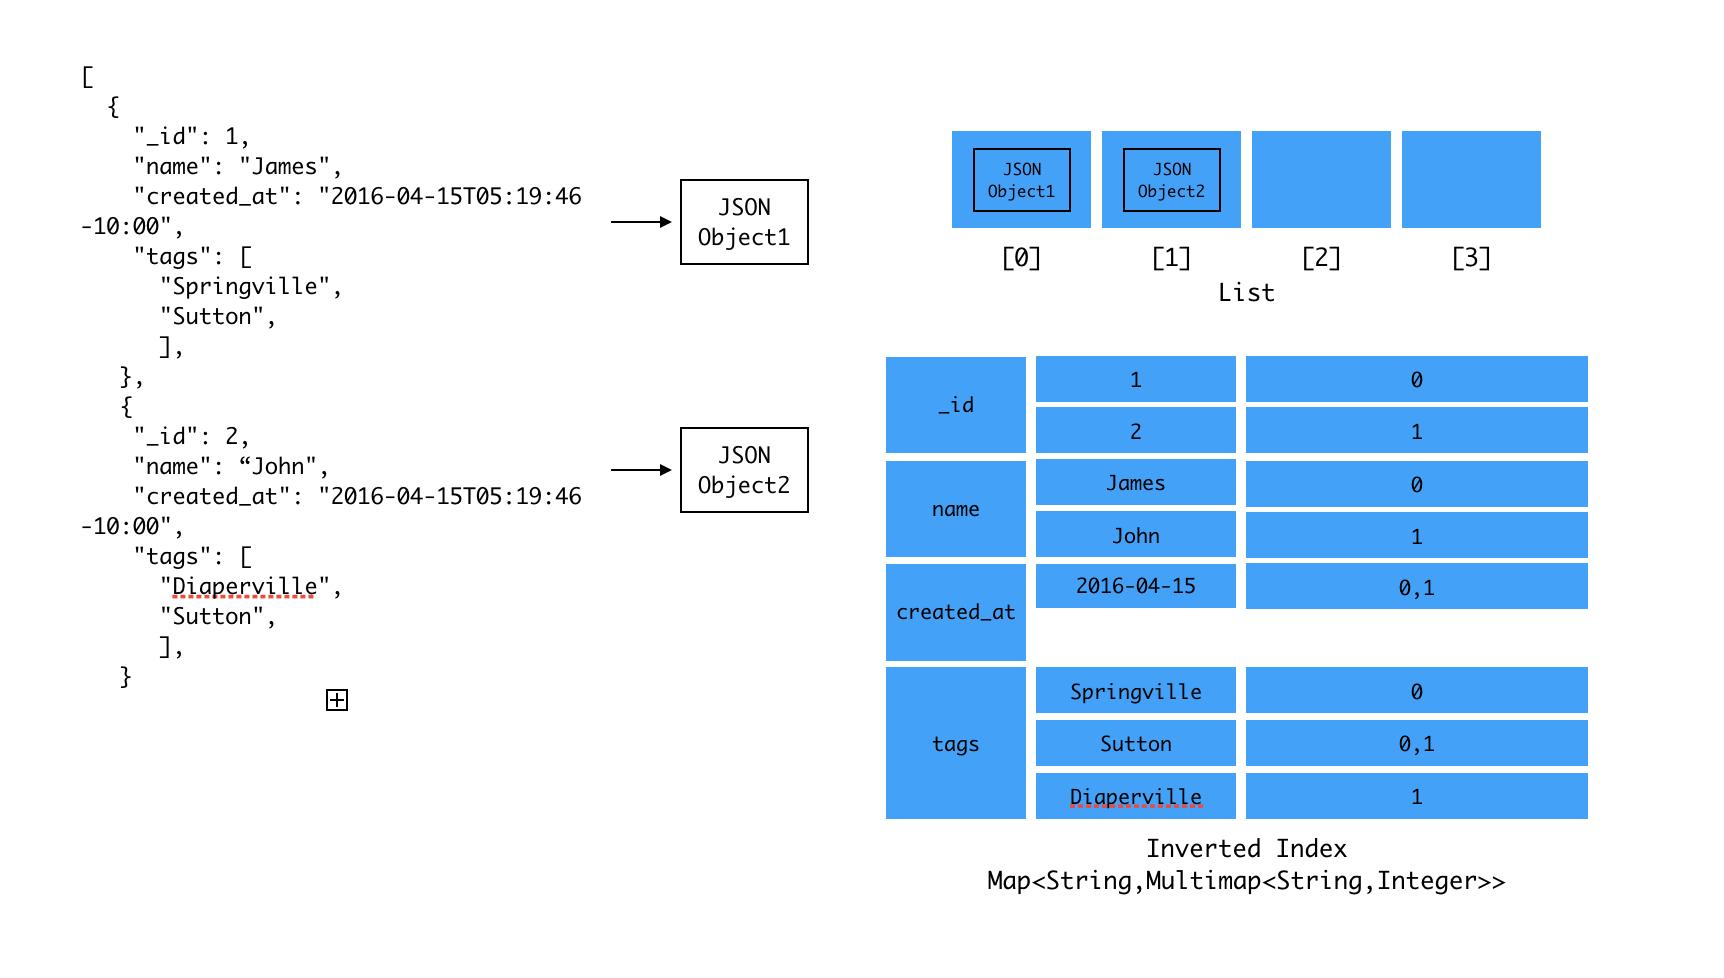
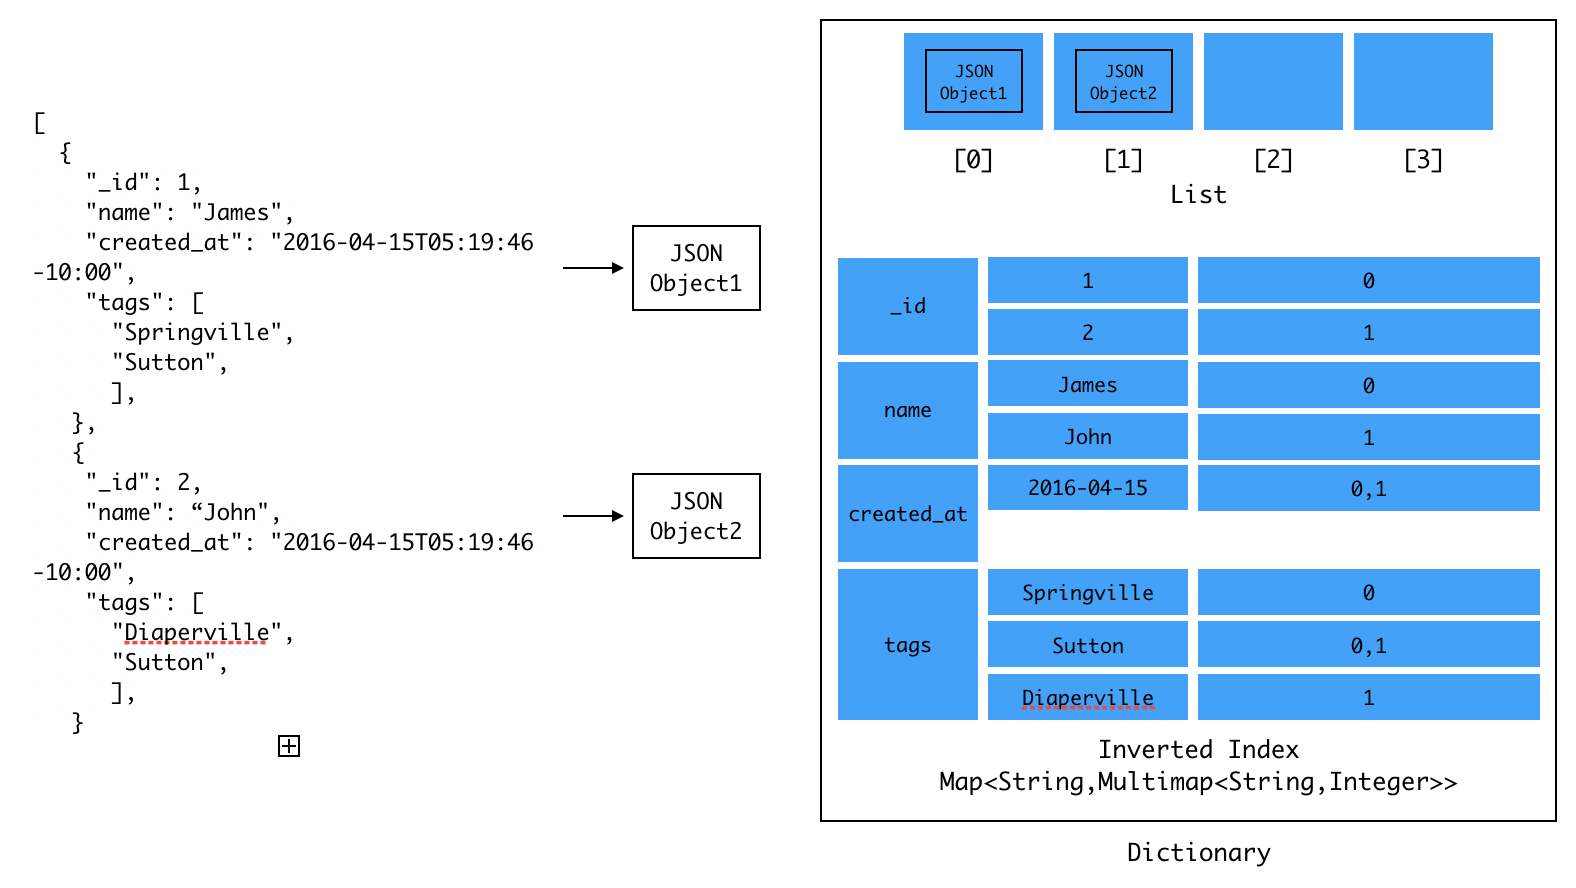
java docs, readme, renaming InvertedIndex to Dictionary

diff --git a/src/test/java/com/zendesk/search/DictionaryTest.java b/src/test/java/com/zendesk/search/DictionaryTest.java
@@ -14,20 +14,20 @@ import java.util.Set;
 
 import static org.hamcrest.CoreMatchers.is;
 
-public class InvertedIndexTest {
+public class DictionaryTest {
     
     private File file;
-    private InvertedIndex<User,Integer> invertedIndex;
+    private Dictionary<User,Integer> dictionary;
 
     @Before
     public void init() {
         file = new File(this.getClass().getResource("/usersSample.json").getFile());
-        invertedIndex = new InvertedIndex<>(file,User.class);
+        dictionary = new Dictionary<>(file,User.class);
     }
     
     @Test
     public void testSearchById_idExists_shouldReturnObjectForId(){
-        User user = invertedIndex.searchById(1);
+        User user = dictionary.searchById(1);
         Assert.assertNotNull(user);
         Assert.assertEquals(1,user.get_id().intValue());
     }
@@ -35,17 +35,17 @@ public class InvertedIndexTest {
     @Test
     public void testSearchById_idDoesNotExist_shouldReturnNull(){
         File file = new File(this.getClass().getResource("/usersSample.json").getFile());
-        InvertedIndex<User,Integer> invertedIndex = new InvertedIndex<>(file,User.class);
-        User user = invertedIndex.searchById(10);
+        Dictionary<User,Integer> dictionary = new Dictionary<>(file,User.class);
+        User user = dictionary.searchById(10);
         Assert.assertNull(user);
     }
 
     @Test
     public void testSearchById_nullId_shouldThrowRuntimeException(){
         File file = new File(this.getClass().getResource("/usersSample.json").getFile());
-        InvertedIndex<User,Integer> invertedIndex = new InvertedIndex<>(file,User.class);
+        Dictionary<User,Integer> dictionary = new Dictionary<>(file,User.class);
         try {
-            invertedIndex.searchById(null);
+            dictionary.searchById(null);
             Assert.fail("IllegalArgumentException to be thrown");
         }catch (IllegalArgumentException e){
             Assert.assertThat(e.getMessage(),is("Id cannot be null"));
@@ -55,9 +55,9 @@ public class InvertedIndexTest {
     @Test
     public void testSearchById_nullTerm_shouldThrowRuntimeException(){
         File file = new File(this.getClass().getResource("/usersSample.json").getFile());
-        InvertedIndex<User,Integer> invertedIndex = new InvertedIndex<>(file,User.class);
+        Dictionary<User,Integer> dictionary = new Dictionary<>(file,User.class);
         try {
-            invertedIndex.searchByTermValue(null,"test");
+            dictionary.searchByTermValue(null,"test");
             Assert.fail("IllegalArgumentException to be thrown");
         }catch (IllegalArgumentException e){
             Assert.assertThat(e.getMessage(),is("Term cannot be null"));
@@ -67,8 +67,8 @@ public class InvertedIndexTest {
     @Test
     public void testSearchTermValue_termExists_shouldReturnAllMatchingInList(){
         File file = new File(this.getClass().getResource("/usersSample.json").getFile());
-        InvertedIndex<User,Integer> invertedIndex = new InvertedIndex<>(file,User.class);
-        List<User> list = invertedIndex.searchByTermValue("shared","false");
+        Dictionary<User,Integer> dictionary = new Dictionary<>(file,User.class);
+        List<User> list = dictionary.searchByTermValue("shared","false");
         Assert.assertNotNull(list);
         Assert.assertEquals(3,list.size());
         list.stream().forEach(l -> Assert.assertFalse(l.getShared()));
@@ -77,15 +77,15 @@ public class InvertedIndexTest {
     @Test
     public void testSearchTermValue_termNotExist_shouldReturnNull(){
         File file = new File(this.getClass().getResource("/usersSample.json").getFile());
-        InvertedIndex<User,Integer> invertedIndex = new InvertedIndex<>(file,User.class);
-        Assert.assertNull(invertedIndex.searchByTermValue("z","false"));
+        Dictionary<User,Integer> dictionary = new Dictionary<>(file,User.class);
+        Assert.assertNull(dictionary.searchByTermValue("z","false"));
     }
 
     @Test
     public void testSearchTermValue_valueNotExist_shouldReturnEmptyList(){
         File file = new File(this.getClass().getResource("/usersSample.json").getFile());
-        InvertedIndex<User,Integer> invertedIndex = new InvertedIndex<>(file,User.class);
-        List<User> list = invertedIndex.searchByTermValue("shared","true");
+        Dictionary<User,Integer> dictionary = new Dictionary<>(file,User.class);
+        List<User> list = dictionary.searchByTermValue("shared","true");
         Assert.assertNotNull(list);
         Assert.assertEquals(0,list.size());
     }
@@ -93,8 +93,8 @@ public class InvertedIndexTest {
     @Test
     public void testSearchTermValue_valueEmptyForATerm_shouldReturnAllMatchingInList(){
         File file = new File(this.getClass().getResource("/usersSample.json").getFile());
-        InvertedIndex<User,Integer> invertedIndex = new InvertedIndex<>(file,User.class);
-        List<User> list = invertedIndex.searchByTermValue("alias","");
+        Dictionary<User,Integer> dictionary = new Dictionary<>(file,User.class);
+        List<User> list = dictionary.searchByTermValue("alias","");
         Assert.assertNotNull(list);
         Assert.assertEquals(1,list.size());
         Assert.assertEquals("",list.get(0).getAlias());
@@ -103,9 +103,9 @@ public class InvertedIndexTest {
     @Test
     public void testSearchTermValue_valueCaseInsensitve_shouldReturnSameResult() {
         File file = new File(this.getClass().getResource("/usersSample.json").getFile());
-        InvertedIndex<User, Integer> invertedIndex = new InvertedIndex<>(file, User.class);
-        List<User> list1 = invertedIndex.searchByTermValue("shared", "false");
-        List<User> list2 = invertedIndex.searchByTermValue("shared", "FALSE");
+        Dictionary<User, Integer> dictionary = new Dictionary<>(file, User.class);
+        List<User> list1 = dictionary.searchByTermValue("shared", "false");
+        List<User> list2 = dictionary.searchByTermValue("shared", "FALSE");
         Assert.assertEquals(3, list1.size());
         Assert.assertEquals(3, list2.size());
         for (int i = 0; i < list1.size(); i++) {
@@ -116,8 +116,8 @@ public class InvertedIndexTest {
     @Test
     public void testSearchTermValue_valueAsDateInYYYYMMDDFormat_shouldReturnAllMatchingYYYYMMDD() {
         File file = new File(this.getClass().getResource("/usersSample.json").getFile());
-        InvertedIndex<User, Integer> invertedIndex = new InvertedIndex<>(file, User.class);
-        List<User> list = invertedIndex.searchByTermValue("created_at", "2016-04-15");
+        Dictionary<User, Integer> dictionary = new Dictionary<>(file, User.class);
+        List<User> list = dictionary.searchByTermValue("created_at", "2016-04-15");
         Assert.assertEquals(1, list.size());
         Assert.assertEquals("2016-04-15",new SimpleDateFormat("YYYY-MM-dd").format(list.get(0).getCreated_at()));
 
@@ -126,8 +126,8 @@ public class InvertedIndexTest {
     @Test
     public void testSearchTermValue_valueInArray_shouldReturnAllMatchingValueInArray() {
         File file = new File(this.getClass().getResource("/usersSample.json").getFile());
-        InvertedIndex<User, Integer> invertedIndex = new InvertedIndex<>(file, User.class);
-        List<User> list = invertedIndex.searchByTermValue("tags", "Sutton");
+        Dictionary<User, Integer> dictionary = new Dictionary<>(file, User.class);
+        List<User> list = dictionary.searchByTermValue("tags", "Sutton");
         Assert.assertEquals(2, list.size());
         list.stream().forEach(l->l.getTags().contains("Sutton"));
     }
@@ -136,10 +136,10 @@ public class InvertedIndexTest {
     @Test
     public void testGetSearchableFields_shouldReturnAllFieldsFromClass(){
         File file = new File(this.getClass().getResource("/usersSample.json").getFile());
-        InvertedIndex<User,Integer> invertedIndex = new InvertedIndex<>(file,User.class);
+        Dictionary<User,Integer> dictionary = new Dictionary<>(file,User.class);
         String[] fields = {"shared","last_login_at","role","signature","timezone","verified","created_at","active","external_id","locale","url","suspended","tags","phone","organization_id","name","alias","_id","email"};
         Set<String> fieldSet = new HashSet<>(Arrays.asList(fields));
-        Assert.assertEquals(fieldSet, invertedIndex.getSearchableFields());
+        Assert.assertEquals(fieldSet, dictionary.getSearchableFields());
     }
 
 

diff --git a/src/main/java/com/zendesk/search/Dictionary.java b/src/main/java/com/zendesk/search/Dictionary.java
@@ -25,7 +25,18 @@ import java.text.SimpleDateFormat;
 import java.util.*;
 import java.util.stream.Collectors;
 
-public class InvertedIndex<T, ID> implements Searchable<T, ID> {
+/**
+ *
+ * Creates an in-memory inverted index from given json file and implements the {@link Searchable} interface
+ * JSON file must be a valid file containing records in form of JSON array.
+ * All the dates in the JSON  must be of the format yyyy-MM-dd'T'HH:mm:ss ZZ
+ * @param <T> Type of the model object to be searched.
+ *          The model must use {@link Id} to specify id and have getters and setters
+ *           Names of the member variables must match attributes/keys of JSON records
+ *           All member variables must have a getter and setter method
+ * @param <ID> Data type of the ID of the model
+ */
+public class Dictionary<T, ID> implements Searchable<T, ID> {
 
     private Class<T> clazz;
     private File file;
@@ -36,8 +47,12 @@ public class InvertedIndex<T, ID> implements Searchable<T, ID> {
     private Map<String, Method> getter;
     private static final SimpleDateFormat YYYYMMDD = new SimpleDateFormat("yyyy-MM-dd");
 
-
-    public InvertedIndex(File file, Class<T> clazz) {
+    /**
+     * Creates an Dictionary object
+     * @param file File containing json data. Json records should be in form of a json array
+     * @param clazz {@link Class} of the model object
+     */
+    public Dictionary(File file, Class<T> clazz) {
         this.file = file;
         this.clazz = clazz;
         this.index = Maps.newLinkedHashMap();
@@ -110,6 +125,12 @@ public class InvertedIndex<T, ID> implements Searchable<T, ID> {
 
     }
 
+    /**
+     *
+     * @throws IllegalArgumentException if the id is null
+     * @param id id of the object
+     * @return
+     */
     @Override
     public T searchById(ID id) {
         if (id == null) throw new IllegalArgumentException("Id cannot be null");
@@ -117,6 +138,14 @@ public class InvertedIndex<T, ID> implements Searchable<T, ID> {
         return list.size() > 0 ? list.get(0) : null;
     }
 
+    /**
+     * Returns the list of objects that has the given value for the term.
+     * Date values to be searched in the format of  "YYYY-MM-dd"
+     * @throws IllegalArgumentException if the term is null
+     * @param term attribute/key field
+     * @param value value to be searched. Value is case-insensitive
+     * @return List of matched objects. Null if no matching objects found
+     */
     @Override
     public List<T> searchByTermValue(String term, String value) {
         if (term == null) throw new IllegalArgumentException("Term cannot be null");

diff --git a/src/main/java/com/zendesk/search/Searchable.java b/src/main/java/com/zendesk/search/Searchable.java
@@ -3,11 +3,32 @@ package com.zendesk.search;
 import java.util.List;
 import java.util.Set;
 
+/**
+ * Interface defining search operations.
+ * @param <T> the type of elements to be searched
+ * @param <ID> the data type of the ID
+ * @see Dictionary
+ */
 public interface Searchable<T,ID> {
 
+    /**
+     * Returns the object for the given id
+     * @param id id of the object
+     * @return Object having the given id
+     */
     T searchById(ID id);
 
+    /**
+     * Returns the list of objects that has the given value for the term
+     * @param term attribute/key field
+     * @param value value to be searched
+     * @return {@link List} of objects
+     */
     List<T> searchByTermValue(String term, String value);
 
+    /**
+     * Returns the names of the fields that can be searched for as a {@link Set}
+     * @return {@link Set} containing names of fields that can be searched
+     */
     Set<String> getSearchableFields();
 }

diff --git a/src/main/java/com/zendesk/service/SearchServiceImpl.java b/src/main/java/com/zendesk/service/SearchServiceImpl.java
@@ -10,7 +10,7 @@ import com.zendesk.mapper.UserToUserDTOMapper;
 import com.zendesk.model.Organization;
 import com.zendesk.model.Ticket;
 import com.zendesk.model.User;
-import com.zendesk.search.InvertedIndex;
+import com.zendesk.search.Dictionary;
 import com.zendesk.search.Searchable;
 
 import java.io.File;
@@ -27,9 +27,9 @@ public class SearchServiceImpl implements SearchService{
 
 
     public SearchServiceImpl(File user, File ticket, File organization){
-        this.user = new InvertedIndex<>(user,User.class);
-        this.ticket = new InvertedIndex<>(ticket,Ticket.class);
-        this.organization = new InvertedIndex<>(organization,Organization.class);
+        this.user = new Dictionary<>(user,User.class);
+        this.ticket = new Dictionary<>(ticket,Ticket.class);
+        this.organization = new Dictionary<>(organization,Organization.class);
 
     }
     @Override

diff --git a/README.md b/README.md
@@ -1,8 +1,11 @@
 # Zendesk Melbourne - Coding Challenge
 
 
+## Requirements
+* Java 8
+* Apache Maven 3.6.0 
 
-## Usage Instructions 
+## Usage 
 ```
 $ git clone https://github.com/shubham-pathak22/zendesk-coding-challenge.git
 $ cd zendesk-coding-challenge
@@ -10,14 +13,16 @@ $ mvn package
 $ java -jar target/zendesk-coding-challenge-1.0-SNAPSHOT.jar 
 
 ```
+Alternatively, open the project in an IDE and run `Main.java`
+
 ## Data
 
-By default the application uses the files present in the resources as input files.
+By default the application uses the files present in the resources folder as input files.
 ```
 $ ls src/main/resources/*.json
 users.json tickets.json organizations.json
 ```
-To use other files as data, please edit the config.properties to provide complete path for the files. 
+To use other files as input, please edit the config.properties to provide complete path for the files. 
 ```
 $ cat src/main/resources/config.properties 
 user.json.path=
@@ -28,21 +33,31 @@ organization.json.path=
 ## Design
 
 The input file is scanned and each record is converted into a JSON Object.
-All JSON Objects are loaded into a data structure called `InvertedIndex`.
+All JSON Objects are loaded into a data structure called `Dictionary`.
 
-`InvertedIndex` consists of 
+`Dictionary` consists of 
 * A `List` which contains actual JSON objects
-* A `Map<String<Multimap<String,Integer>` which contains mapping of terms to a multimap containing values and list of indices of the actual objects containing those values
+* An `Inverted Index (Map<String<Multimap<String,Integer>)` which contains mapping of terms to a multimap containing values and list of indices of the actual objects containing those values
 
 
-![alt text](https://github.com/shubham-pathak22/zendesk-coding-challenge/blob/master/figure.png "InvertedIndex")
+![alt text](https://github.com/shubham-pathak22/zendesk-coding-challenge/blob/master/figure.png "Dictionary")
+
+
 
 ## Matching Instructions 
-* Elements belonging to the array can be searched individually.
-* Keys for the date values are stored  in "YYYY-MM-dd" format.So to search for records that were created on 21st April 2015, enter 2015-04-21 as the value
+* Search is case-insensitve
+* Values in the array can be searched independently. All records containing the particular array value will be matched
+* Keys for the date values are stored  in "YYYY-MM-dd" format. To search for records that were created on 21st April 2015, enter 2015-04-21 as the value
 * Empty fields can be searched as well. When prompted for the value just press enter.
 
 ## Assumptions
+* Names of the member variables in the model classes match the attribute names of the json
+* Model class has the id field annotated with `@Id`
+* Attribute `_id` is unique and document has just one record per `_id`
+* `_id` cannot be null
+* Input files are valid `JSON` files.
+* Json Records in the input file are in form of an `array` 
+* All the date values are of the format `yyyy-MM-dd'T'HH:mm:ss ZZ`
 
-## Limitations
+
 
